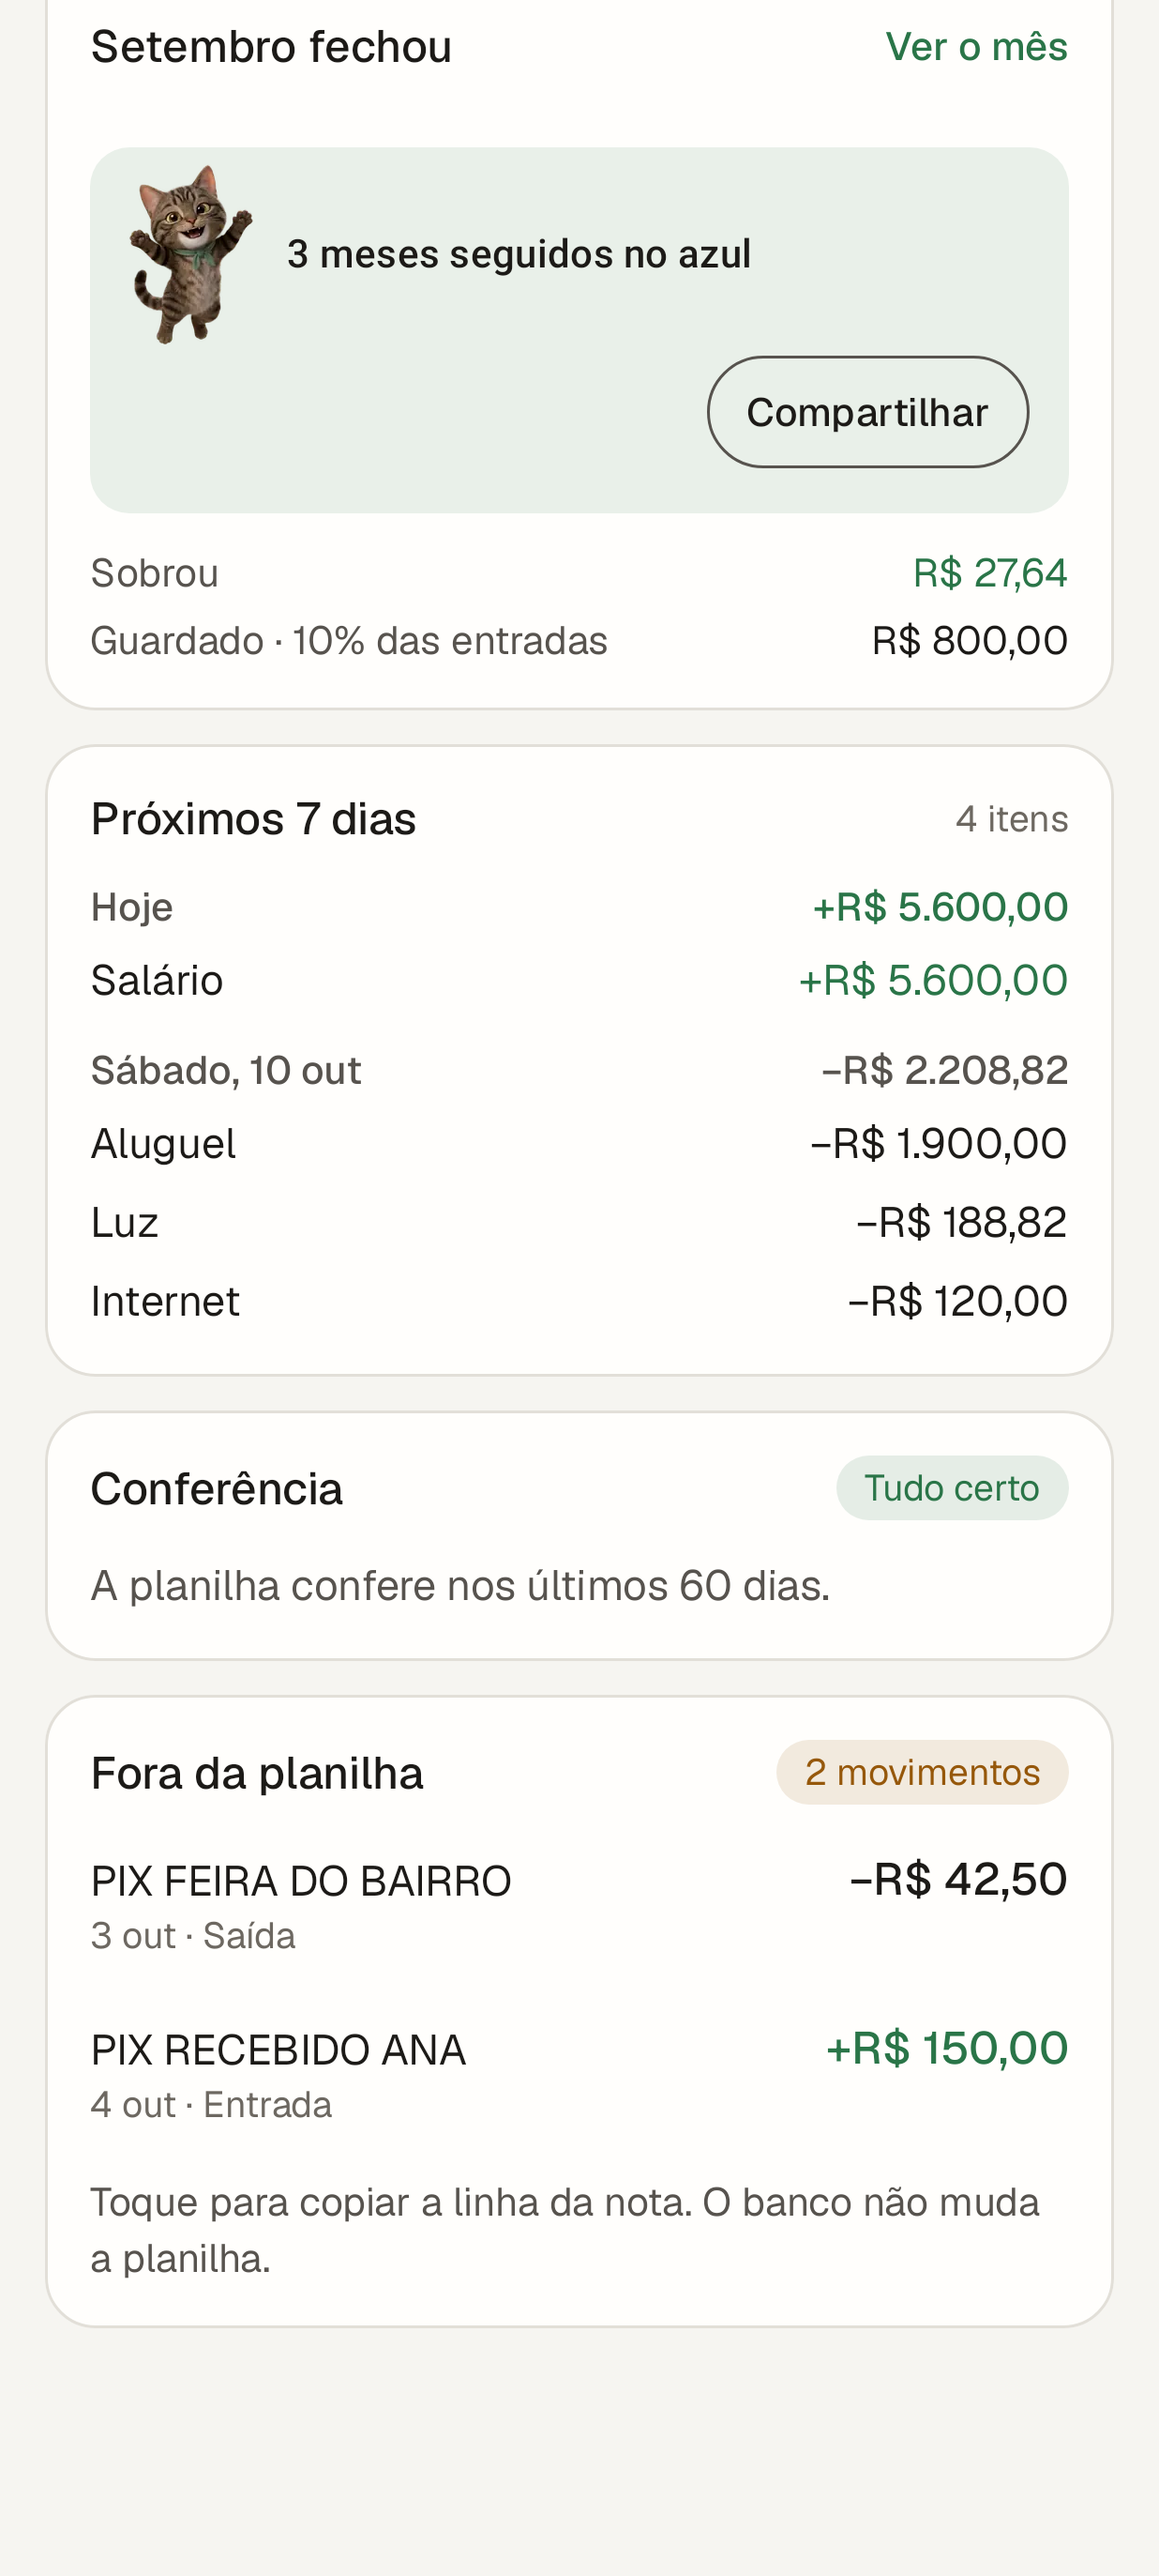
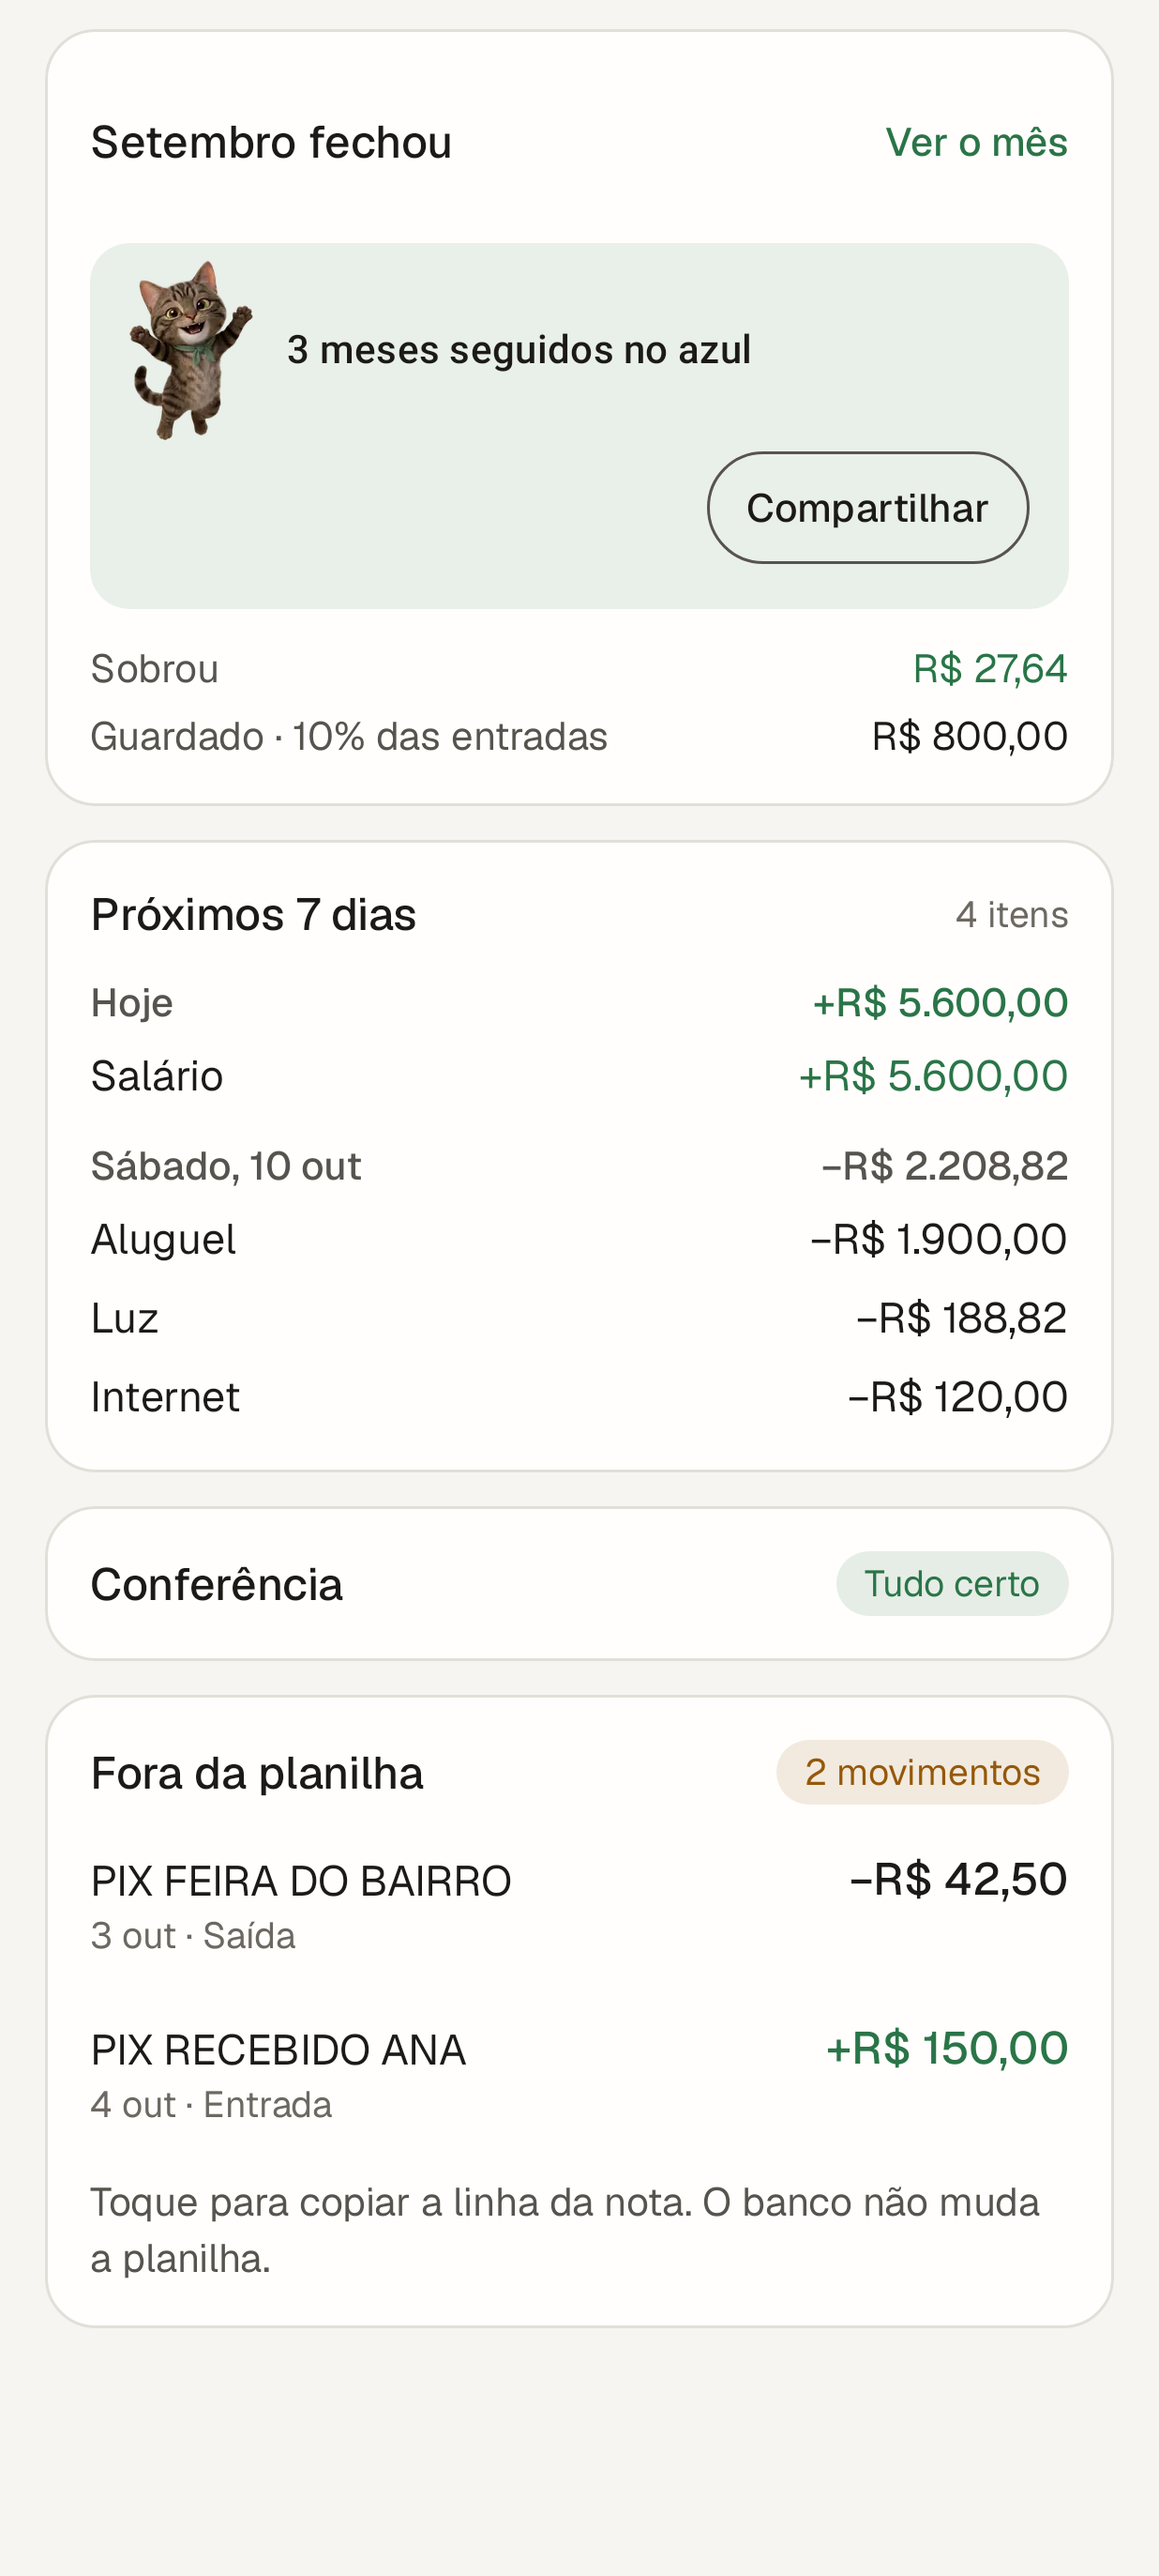
Deixa a Conferência do Hoje compacta quando está tudo certo: só o título e o chip, sem a frase que repetia o chip
Claude-Session: https://claude.ai/code/session_015puGdtXzviPEaqxJtpNLAQ

diff --git a/apps/android/app/src/main/kotlin/dev/johnlaff/neko/ui/HojeScreen.kt b/apps/android/app/src/main/kotlin/dev/johnlaff/neko/ui/HojeScreen.kt
@@ -463,13 +463,7 @@ private fun Conference(v: TodayView) {
                 if (n == 0) ChipTone.Ok else ChipTone.Warn,
             )
         }
-        if (v.issues.isEmpty()) {
-            Text(
-                if (v.issuesInWindow == 0) "A planilha confere nos últimos 60 dias."
-                else "Nada novo. Os pontos que você já conferiu ficam escondidos.",
-                color = l.muted,
-            )
-        }
+        // All clear is the title and its chip alone: a sentence saying so again only adds height.
         v.issues.forEach { t ->
             val line = Copy.issue(t.issue)
             Column(

diff --git a/apps/neko/src/web/screens/Hoje.tsx b/apps/neko/src/web/screens/Hoje.tsx
@@ -261,13 +261,8 @@ const Conference = ({
               : `${open.length} pontos`}
         </span>
       </div>
-      {open.length === 0 ? (
-        <p className="hint">
-          {issues.length === 0
-            ? "A planilha confere nos últimos 60 dias."
-            : "Nada novo. Os pontos que você já conferiu ficam escondidos."}
-        </p>
-      ) : (
+      {/* All clear is the title and its chip alone: a sentence saying so again only adds height. */}
+      {open.length > 0 && (
         <>
           <IssueList items={open} sheet={sheet} />
           {settings.data && (
